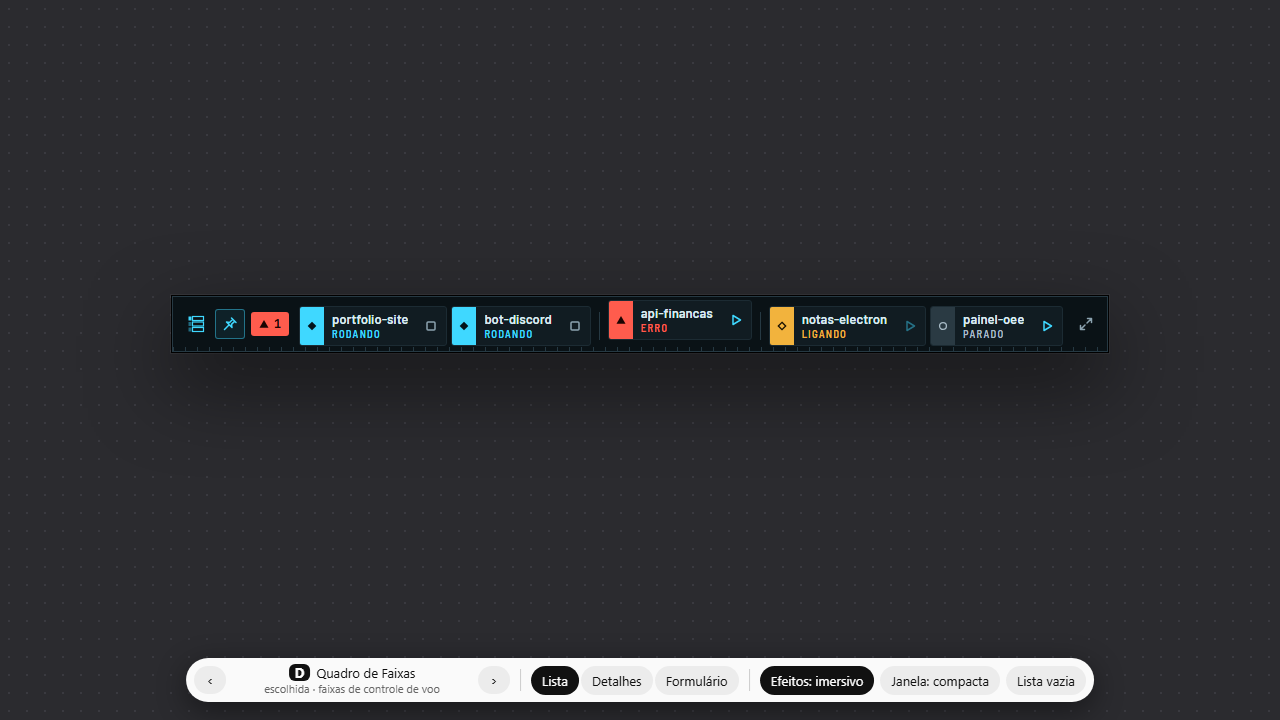
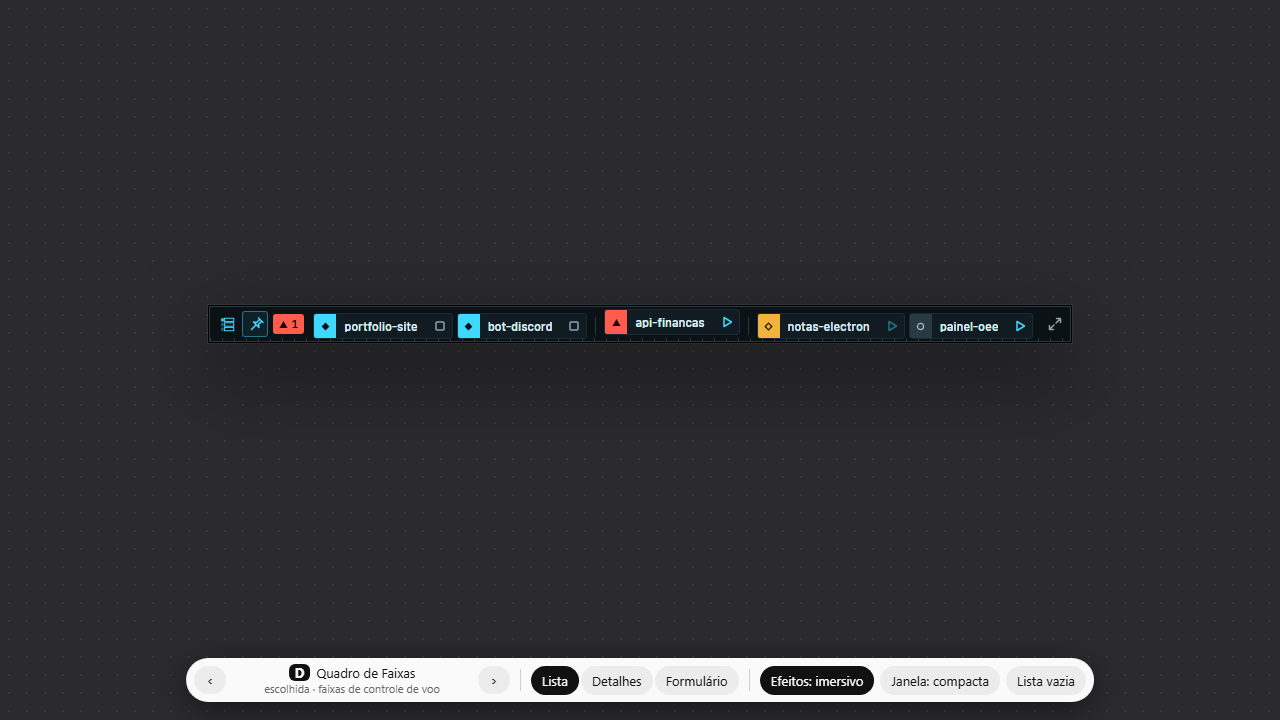
prototype(LUC-119): barra compacta mais baixa (36px)
Faixas de uma linha só (26px). O estado passa a ser dito pela forma, pela
cor do suporte e pelo grupo de baia, com o texto no title e para leitores
de tela. DESIGN.md e o sidecar acompanham as novas medidas.

Changed region(s): [[0.125, 0.3972, 0.875, 0.4889]]

diff --git a/prototypes/luc-119-identidade-visual/index.html b/prototypes/luc-119-identidade-visual/index.html
@@ -577,35 +577,32 @@ body{background:#2b2b2f;background-image:radial-gradient(#3a3a40 1px,transparent
 .vD .d-menu .danger{color:var(--red)}
 .vD .toast{background:var(--face2);border:1px solid var(--line);border-radius:3px;padding:8px 14px;font-size:13px;box-shadow:0 10px 28px rgba(0,0,0,.55)}
 .vD.size-c{overflow:visible}
-.vD .m-bar{height:56px;display:flex;align-items:center;gap:4px;padding:0 6px 0 8px;background-color:var(--rack);border:1px solid var(--line);
-  background-image:repeating-linear-gradient(90deg,var(--line) 0 1px,transparent 1px 12px);background-size:100% 4px;background-position:0 100%;background-repeat:no-repeat}
-.vD .m-grip{display:flex;align-items:center;height:36px;padding:0 6px;color:var(--cyan);cursor:grab}
-.vD .m-ib{width:30px;height:30px;display:grid;place-items:center;background:none;border:1px solid transparent;border-radius:3px;color:var(--mute);flex:none}
+.vD .m-bar{height:36px;display:flex;align-items:center;gap:3px;padding:0 4px 0 6px;background-color:var(--rack);border:1px solid var(--line);
+  background-image:repeating-linear-gradient(90deg,var(--line) 0 1px,transparent 1px 12px);background-size:100% 3px;background-position:0 100%;background-repeat:no-repeat}
+.vD .m-grip{display:flex;align-items:center;height:26px;padding:0 4px;color:var(--cyan);cursor:grab}
+.vD .m-ib{width:26px;height:26px;display:grid;place-items:center;background:none;border:1px solid transparent;border-radius:3px;color:var(--mute);flex:none}
 .vD .m-ib:hover{background:var(--face2);border-color:var(--line);color:var(--ink)}
 .vD .m-ib.on{color:var(--cyan);border-color:rgba(63,216,255,.45);background:rgba(63,216,255,.08)}
-.vD .m-alert{display:inline-flex;align-items:center;gap:5px;height:24px;padding:0 8px;margin:0 2px;border:0;border-radius:3px;background:var(--red);color:var(--on-red);font:700 12px "JetBrains Mono",monospace;flex:none}
-.vD .m-alert .sh{width:10px;height:10px}
-.vD .m-strips{display:flex;align-items:center;gap:4px;overflow-x:auto;max-width:min(1040px,calc(100vw - 200px));padding:10px 4px 6px;scrollbar-width:none}
+.vD .m-alert{display:inline-flex;align-items:center;gap:4px;height:20px;padding:0 6px;margin:0 2px;border:0;border-radius:3px;background:var(--red);color:var(--on-red);font:700 11px "JetBrains Mono",monospace;flex:none}
+.vD .m-alert .sh{width:9px;height:9px}
+.vD .m-strips{display:flex;align-items:center;gap:4px;overflow-x:auto;max-width:min(1040px,calc(100vw - 200px));padding:6px 4px 2px;scrollbar-width:none}
 .vD .m-strips::-webkit-scrollbar{display:none}
 .vD .m-strips.ovf-r{-webkit-mask-image:linear-gradient(90deg,#000 calc(100% - 32px),transparent);mask-image:linear-gradient(90deg,#000 calc(100% - 32px),transparent)}
 .vD .m-strips.ovf-l{-webkit-mask-image:linear-gradient(90deg,transparent,#000 32px);mask-image:linear-gradient(90deg,transparent,#000 32px)}
 .vD .m-strips.ovf-l.ovf-r{-webkit-mask-image:linear-gradient(90deg,transparent,#000 32px,#000 calc(100% - 32px),transparent);mask-image:linear-gradient(90deg,transparent,#000 32px,#000 calc(100% - 32px),transparent)}
-.vD .m-more{flex:none;height:24px;padding:0 7px;display:inline-flex;align-items:center;border:1px solid var(--line);border-radius:3px;background:none;color:var(--mute);font:500 12px "JetBrains Mono",monospace}
+.vD .m-more{flex:none;height:20px;padding:0 6px;display:inline-flex;align-items:center;border:1px solid var(--line);border-radius:3px;background:none;color:var(--mute);font:500 11px "JetBrains Mono",monospace}
 .vD .m-more[hidden]{display:none}
 .vD .m-more:hover{color:var(--ink);background:var(--face2)}
-.vD .m-add{flex:none;margin-right:6px}
-.vD .m-gap{width:1px;height:28px;background:var(--line);margin:0 4px;flex:none}
-.vD .m-strip{display:grid;grid-template-columns:24px auto 30px;height:40px;flex:none;position:relative;top:0;background:var(--face);border:1px solid var(--rule);border-radius:3px}
+.vD .m-add{flex:none;margin-right:4px;height:26px}
+.vD .m-gap{width:1px;height:18px;background:var(--line);margin:0 4px;flex:none}
+.vD .m-strip{display:grid;grid-template-columns:22px auto 26px;height:26px;flex:none;position:relative;top:0;background:var(--face);border:1px solid var(--rule);border-radius:3px}
 .vD .m-strip>*+*{border-left:1px solid var(--rule)}
-.vD .m-strip.cocked{top:-6px}
-.vD .m-strip .sh{width:10px;height:10px}
-.vD .m-name{display:flex;flex-direction:column;justify-content:center;gap:1px;min-width:0;padding:0 8px;background:none;border:0;text-align:left}
+.vD .m-strip.cocked{top:-4px}
+.vD .m-strip .sh{width:9px;height:9px}
+.vD .m-name{display:flex;align-items:center;min-width:0;padding:0 8px;background:none;border:0;text-align:left}
 .vD .m-name:hover{background:var(--face2)}
-.vD .m-name b{max-width:108px;font:600 13px/1.15 "Barlow",sans-serif;color:var(--ink);white-space:nowrap;overflow:hidden;text-overflow:ellipsis}
-.vD .m-name em{font:600 10.5px/1.1 "Barlow Semi Condensed",sans-serif;letter-spacing:.12em;text-transform:uppercase;font-style:normal;color:var(--slatei)}
-.vD .m-strip.st-run .m-name em{color:var(--cyan)}
-.vD .m-strip.st-err .m-name em{color:var(--red)}
-.vD .m-strip.st-busy .m-name em{color:var(--amber)}
+.vD .m-name b{max-width:108px;font:600 12.5px/1 "Barlow",sans-serif;color:var(--ink);white-space:nowrap;overflow:hidden;text-overflow:ellipsis}
+.vD .m-name em{position:absolute;width:1px;height:1px;overflow:hidden;clip:rect(0 0 0 0);white-space:nowrap}
 .vD .m-tog{display:grid;place-items:center;background:none;border:0;border-radius:0 2px 2px 0;color:var(--mute)}
 .vD .m-tog.go{color:var(--cyan)}
 .vD .m-tog:hover:not(:disabled){background:var(--g);color:var(--ink)}
@@ -1092,7 +1089,7 @@ function dMini(){
     last = k; items += mStrip(p);
   }));
   return `<div class="m-bar" role="toolbar" aria-label="Bat-Computer compacto" data-tauri-drag-region>
-    <span class="m-grip" title="Arraste para mover" data-tauri-drag-region>${MARK}</span>
+    <span class="m-grip" title="Arraste para mover" data-tauri-drag-region>${MARK.replace('width="18" height="18"', 'width="15" height="15"')}</span>
     <button class="m-ib${S.pin ? ' on' : ''}" data-act="pin" aria-pressed="${!!S.pin}" title="${S.pin ? 'Soltar do topo' : 'Fixar no topo'}" aria-label="Fixar no topo">${ic('pin')}</button>
     ${n.err ? `<button class="m-alert" data-act="open-err" title="Ver a falha" aria-label="${n.err} em falha">${SHAPE.err}${n.err}</button>` : ''}
     <div class="m-strips" data-scroll="mini">${items || '<span class="m-none">Nenhum projeto ainda.</span>'}</div>
